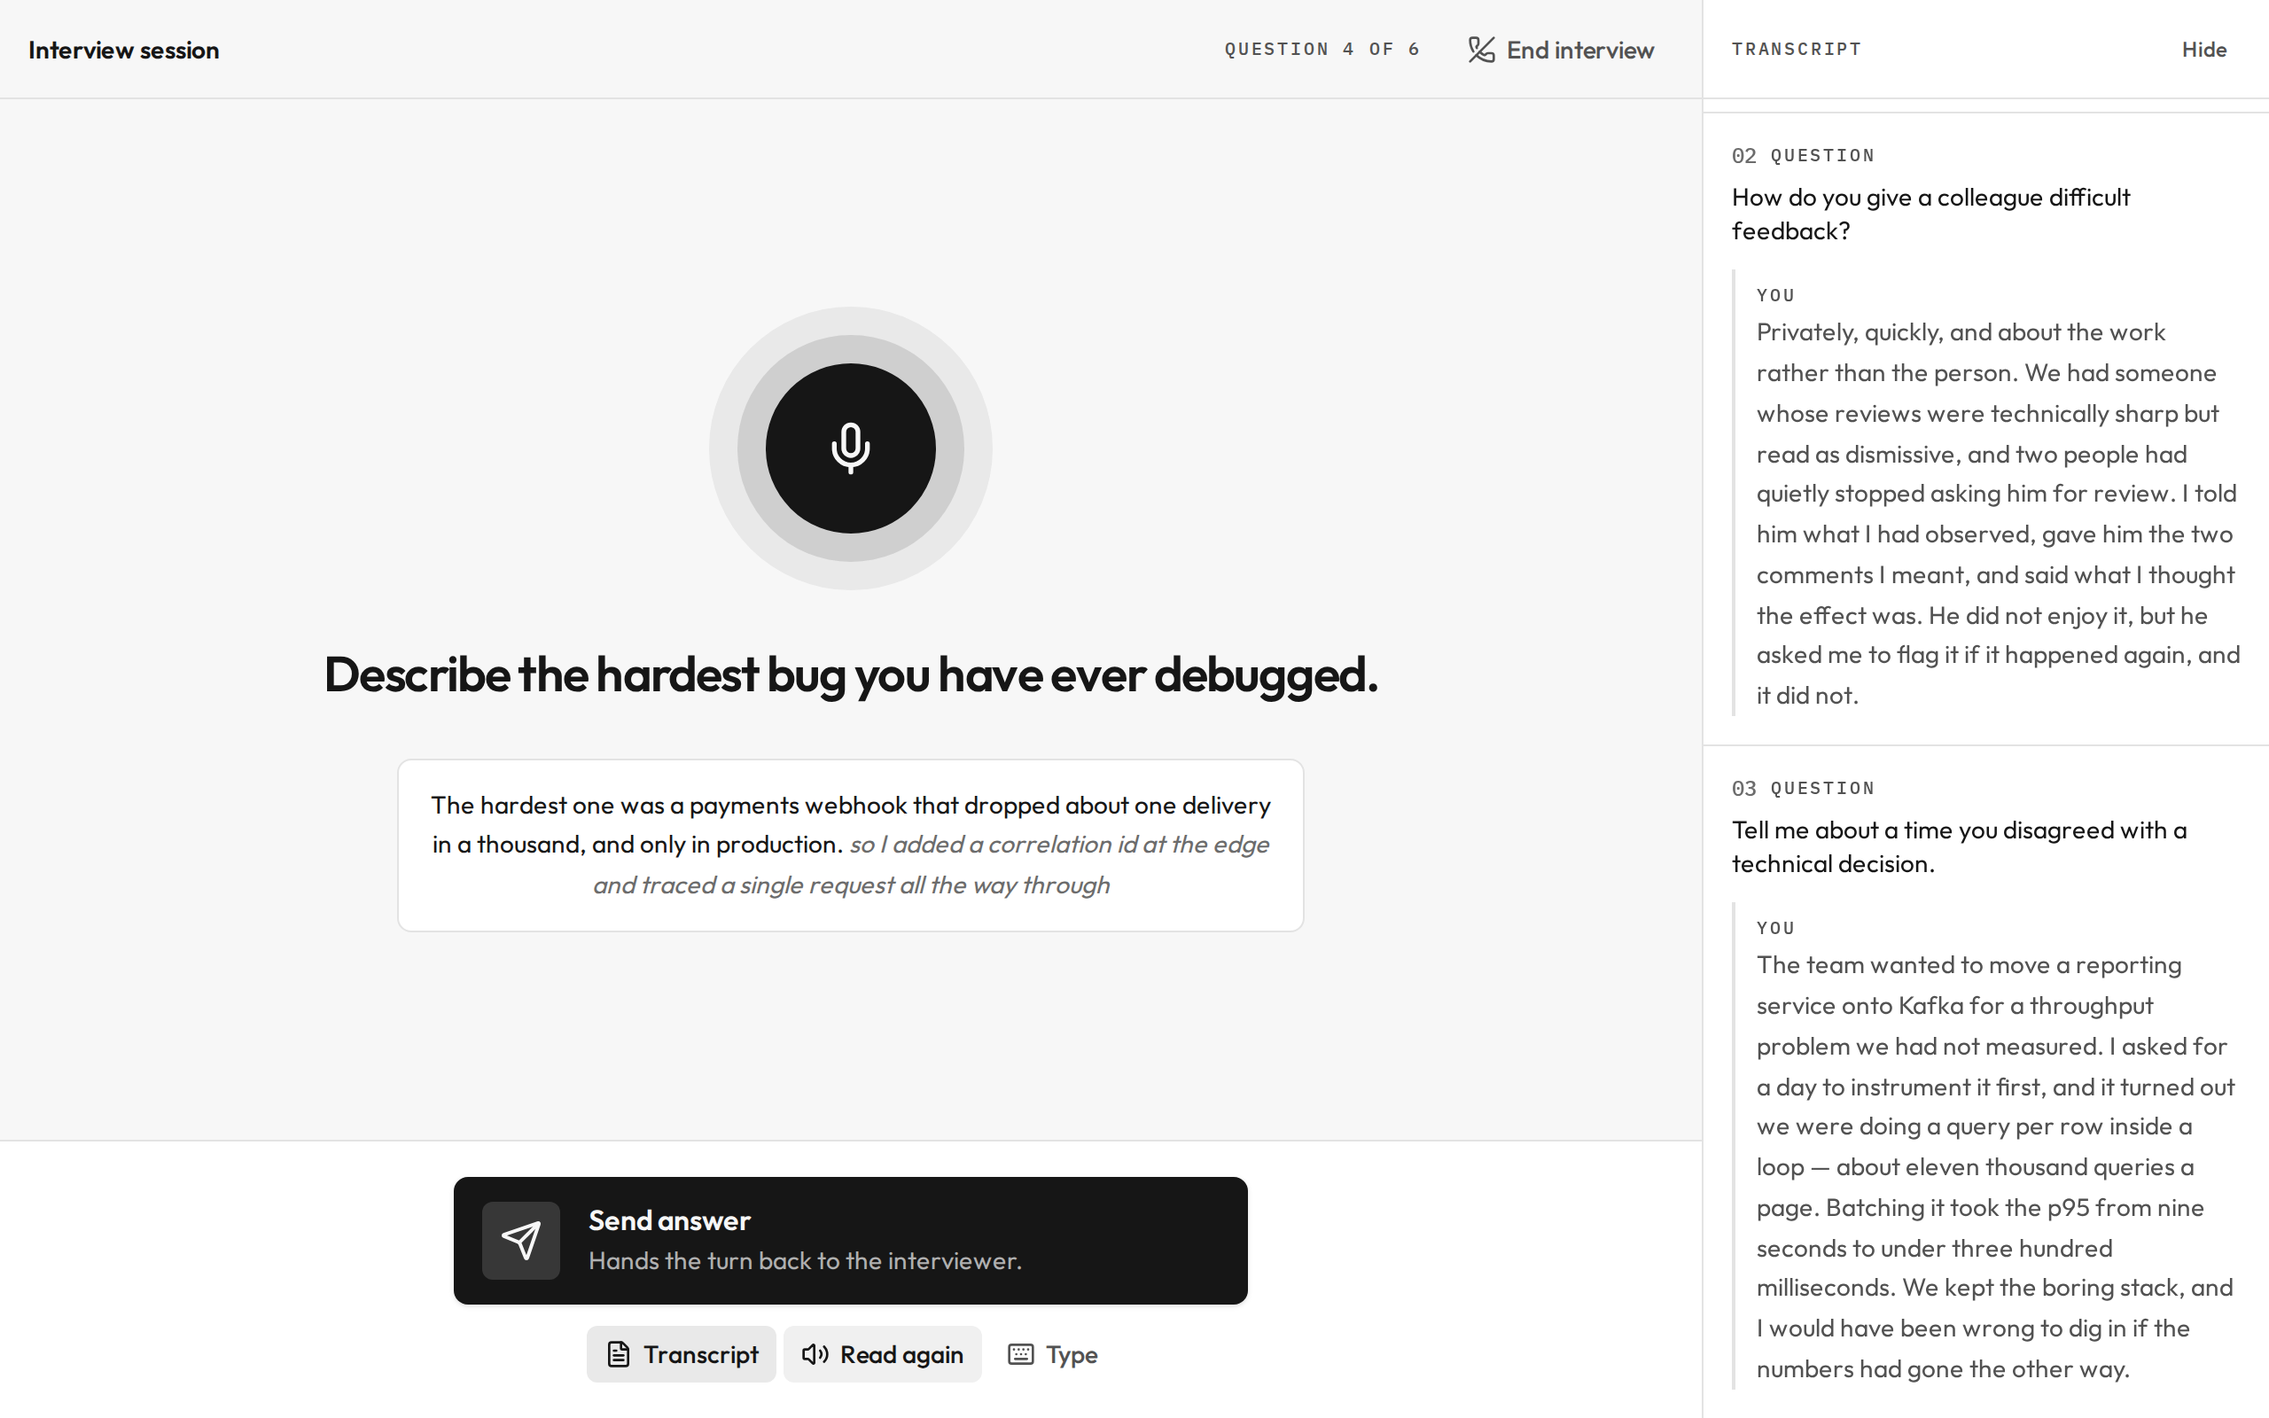
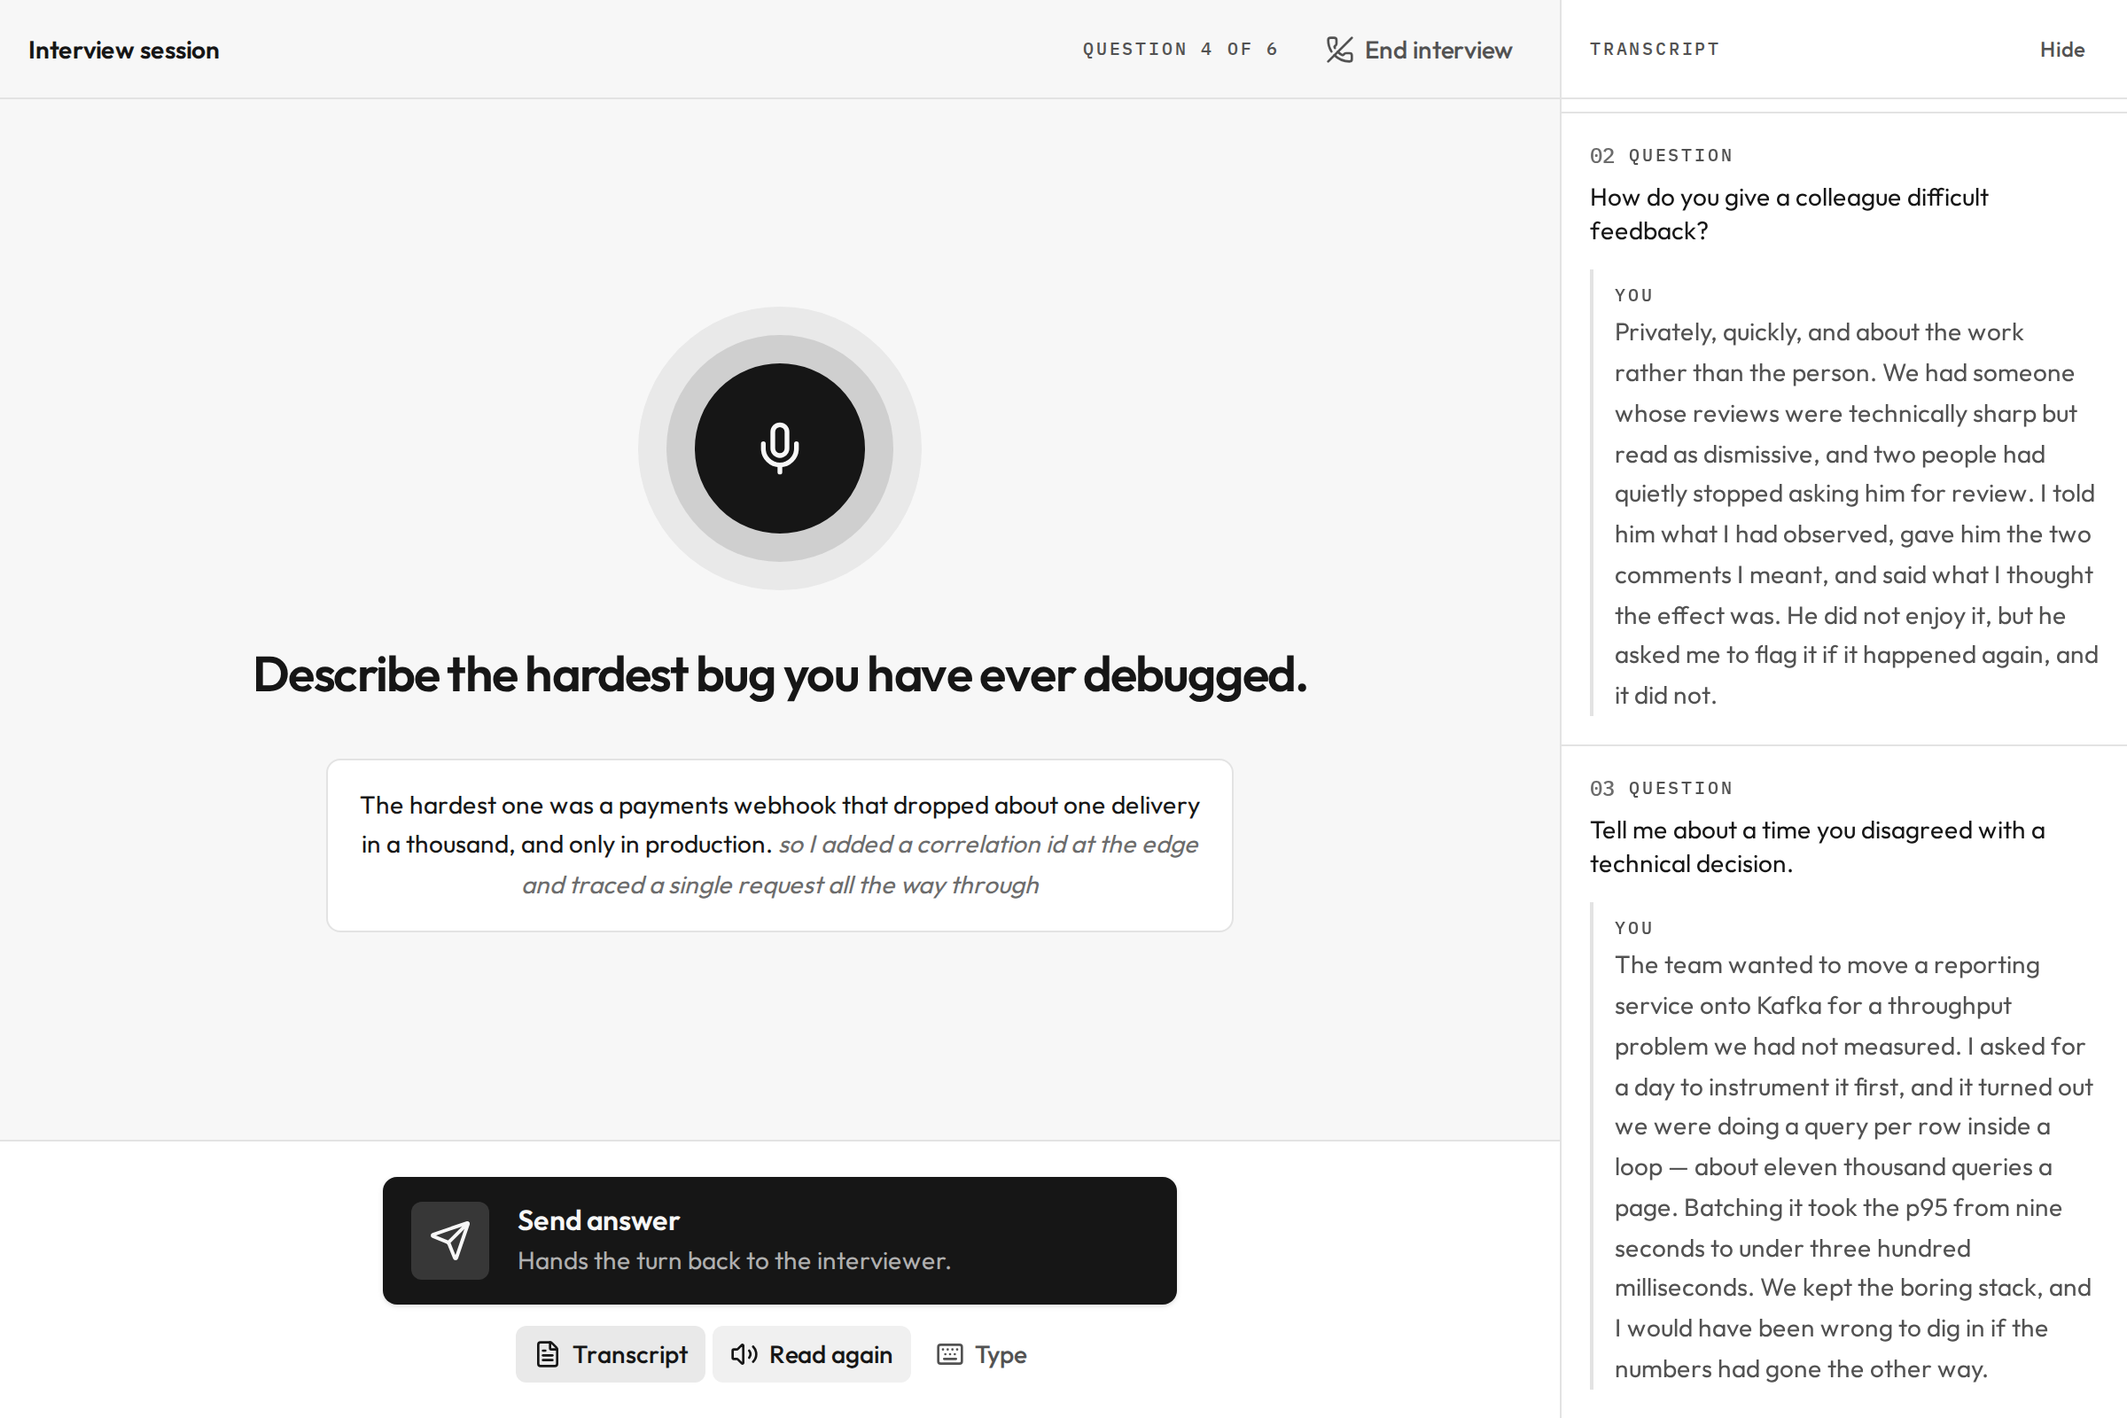
feat(scripts): photograph the dashboard and the report's writing
The capture script took two pictures: the room, and the top of a finished
report. That top is all scores and no writing, and the writing is the half
of a report worth reading — so the report is now cut into two tiles, one
for what it scored and one for the coaching note and the first answer's
card. A fourth target photographs the dashboard, over a year of practice
history seeded from a fixed seed so every run draws the same graph.

Tiles are clipped around a panel rather than at a pixel offset, so a
report the model wrote two lines longer than last time is still framed on
the same block, and two shapes are cut rather than one: what the report
scores is a wide block and what it writes is a tall one. Both new frames
print a warning when the content they exist for falls outside them.

diff --git a/scripts/capture-screenshots.ts b/scripts/capture-screenshots.ts
@@ -1,10 +1,12 @@
 /**
- * Captures the README screenshots: the room mid-answer, and a finished report.
+ * Captures the four README screenshots: the room mid-answer, the scores a
+ * finished session was given, the writing underneath them, and the practice
+ * log on the dashboard.
  *
- * Both are taken against the *test* database, so a run never touches the
- * transcripts in the dev one, and against the real report generator rather than
- * the stub the e2e suite uses — a screenshot of stubbed feedback would be a
- * screenshot of nothing. That costs one Gemini call per run.
+ * All of them are taken against the *test* database, so a run never touches
+ * the transcripts in the dev one, and against the real report generator rather
+ * than the stub the e2e suite uses — a screenshot of stubbed feedback would be
+ * a screenshot of nothing. That costs one Gemini call per run.
  *
  * Start the stack it drives first, in another terminal:
  *
@@ -14,12 +16,18 @@
  * Then, from the repository root:
  *
  *   set -a; . ./.env; set +a
- *   node scripts/capture-screenshots.ts        # both
- *   node scripts/capture-screenshots.ts report # just the report
- *   node scripts/capture-screenshots.ts room   # just the room
+ *   node scripts/capture-screenshots.ts           # all four
+ *   node scripts/capture-screenshots.ts report    # the two report tiles
+ *   node scripts/capture-screenshots.ts room      # just the room
+ *   node scripts/capture-screenshots.ts dashboard # just the dashboard
  */
 import { mkdirSync } from "node:fs";
-import { type Browser, chromium, type Page } from "@playwright/test";
+import {
+  type Browser,
+  chromium,
+  type Locator,
+  type Page,
+} from "@playwright/test";
 import { config } from "dotenv";
 import { Pool } from "pg";
 
@@ -37,9 +45,30 @@ if (!new URL(connectionString).pathname.endsWith("_test")) {
 }
 
 const only = process.argv[2] ?? "all";
-if (!["all", "room", "report"].includes(only)) {
-  throw new Error(`Unknown target "${only}". Use all, room or report.`);
+if (!["all", "room", "report", "dashboard"].includes(only)) {
+  throw new Error(
+    `Unknown target "${only}". Use all, room, report or dashboard.`,
+  );
 }
+
+/**
+ * The README sets these two to a row, so each row is cut to one shape and the
+ * grid lines up. Two shapes rather than one: what the report scores is a wide
+ * block and what it writes is a tall one, and forcing both into the same frame
+ * either cuts a panel in half or leaves a strip of the next one hanging in.
+ *
+ * The room is photographed wider than the rest because it is the one full-bleed
+ * screen — the transcript only stands beside the stage, rather than sliding
+ * over it, above `md`. Everything else lives in the app's `max-w-3xl` content
+ * column: 768 plus a margin either side is all there is to photograph, and a
+ * wider frame would only add background.
+ */
+const WIDE_TILE = { width: 816, height: 544 };
+const TALL_TILE = { width: 816, height: 680 };
+/** The room, at the wide tile's ratio. */
+const ROOM_TILE = { width: 1200, height: 800 };
+/** A tile opens one panel gap — the app's own `space-y-4` — above its anchor. */
+const TILE_PAD = 16;
 
 const BANK = [
   "Tell me about a time you disagreed with a technical decision.",
@@ -104,6 +133,116 @@ const REPORT_FINAL = {
   q: "How do you decide what to test?",
   a: "I go after the parts where a mistake actually costs something — payments, permissions, anything that writes or deletes. Those I cover at the unit level where I can, and I keep the browser tests to the few journeys people cannot avoid. If I fix a bug I will usually add a test for it as well.",
 };
+
+/**
+ * The practice history behind the dashboard: a year of days, thinner at the
+ * far end of the window than at this one, with a nine-day run ending today and
+ * a longer one last winter.
+ *
+ * Generated from a fixed seed rather than written out. Three hundred and
+ * seventy hand-picked dates is a wall of literals nobody would read or keep
+ * accurate, and the seed makes every run draw the same graph. It thickens
+ * towards the present on purpose: an evenly full year says nothing about a
+ * habit, and the shape of one forming is what the screen is for.
+ */
+const HISTORY_DAYS = 370;
+/** Days before today. Today is practised too, so the run reads as nine. */
+const CURRENT_RUN = 8;
+const BEST_RUN = { from: 121, days: 17 };
+
+/** How often a day was practised, by how long ago it was. */
+function likelihood(daysAgo: number): number {
+  if (daysAgo < 120) return 0.58;
+  if (daysAgo < 250) return 0.4;
+  return 0.22;
+}
+
+/** Small seeded PRNG (mulberry32), so the same year is drawn every run. */
+function seeded(seed: number): () => number {
+  let state = seed;
+  return () => {
+    state = (state + 0x6d2b79f5) | 0;
+    let t = state;
+    t = Math.imul(t ^ (t >>> 15), t | 1);
+    t ^= t + Math.imul(t ^ (t >>> 7), t | 61);
+    return ((t ^ (t >>> 14)) >>> 0) / 4294967296;
+  };
+}
+
+/** How many days before today each seeded practice session was sat. */
+function practiceDaysAgo(): number[] {
+  const random = seeded(0x5eed);
+  const days: number[] = [];
+  for (let daysAgo = 1; daysAgo <= HISTORY_DAYS; daysAgo += 1) {
+    const inRun =
+      daysAgo <= CURRENT_RUN ||
+      (daysAgo >= BEST_RUN.from && daysAgo < BEST_RUN.from + BEST_RUN.days);
+    if (inRun) {
+      days.push(daysAgo);
+      continue;
+    }
+    // A run is only a run if the day either side of it is a miss, so the two
+    // above are fenced rather than left to the dice.
+    const fences = [
+      CURRENT_RUN + 1,
+      BEST_RUN.from - 1,
+      BEST_RUN.from + BEST_RUN.days,
+    ];
+    if (fences.includes(daysAgo)) continue;
+    if (random() < likelihood(daysAgo)) days.push(daysAgo);
+  }
+  return days;
+}
+
+/**
+ * The evening of a day that many days ago, computed here rather than in SQL.
+ *
+ * Which day a session belongs to is a question about the *browser's* timezone —
+ * that is where the heatmap buckets them — and Postgres would answer it in the
+ * server's. Node shares the browser's, so the dates line up whatever the
+ * container is set to.
+ */
+function eveningDaysAgo(daysAgo: number): Date {
+  const date = new Date();
+  date.setHours(19, 0, 0, 0);
+  date.setDate(date.getDate() - daysAgo);
+  return date;
+}
+
+/**
+ * Fills in the practice log: one finished session an evening, over the whole
+ * bank, every question answered.
+ *
+ * The answers are a placeholder and say so. Nothing photographed reads them —
+ * the heatmap needs only the day a session was sat and that something was
+ * answered on it — and writing three hundred plausible transcripts to fill in
+ * squares 10 pixels wide would be a strange way to spend an afternoon.
+ */
+async function seedHistory(pool: Pool): Promise<number> {
+  const days = practiceDaysAgo();
+  const { rowCount } = await pool.query(
+    `WITH sat AS (
+       SELECT started FROM unnest($1::timestamptz[]) AS started
+     ), inserted AS (
+       INSERT INTO sessions (question_count, started_at, ended_at)
+       SELECT $2, started, started + interval '14 minutes' FROM sat
+       RETURNING id, started_at
+     )
+     INSERT INTO turns (session_id, position, question_text, answer_text, answered_at)
+     SELECT inserted.id, asked.position, asked.text, $3,
+            inserted.started_at + asked.position * interval '2 minutes'
+     FROM inserted
+     CROSS JOIN unnest($4::text[]) WITH ORDINALITY AS asked(text, position)`,
+    [
+      days.map((daysAgo) => eveningDaysAgo(daysAgo).toISOString()),
+      BANK.length,
+      "(seeded practice history, not a real answer)",
+      BANK,
+    ],
+  );
+  console.log(`history: ${days.length} days, ${rowCount} turns`);
+  return days.length;
+}
 
 interface SeededTurn {
   readonly q: string;
@@ -171,6 +310,9 @@ async function seed() {
       unanswered: [REPORT_FINAL.q],
       startedMinutesAgo: 18,
     });
+    // Both of the above were sat today, so the dashboard's newest square is
+    // filled by the two sessions being photographed rather than by history.
+    await seedHistory(pool);
     return { roomId, reportId };
   } finally {
     await pool.end();
@@ -257,11 +399,43 @@ async function hideDevtools(page: Page): Promise<void> {
   });
 }
 
+/**
+ * A tile cut out of a page taller than one: the content column with an even
+ * margin either side, opening a gap above `anchor`.
+ *
+ * Anchored to a panel rather than to a pixel offset, so a report the model
+ * wrote two lines longer than last time is still framed on the same block.
+ */
+async function documentTile(
+  page: Page,
+  anchor: Locator,
+  size: { width: number; height: number },
+): Promise<{ x: number; y: number; width: number; height: number }> {
+  // Both boxes are viewport-relative, so they are document coordinates only
+  // while the page is at the top of itself.
+  await page.evaluate(() => window.scrollTo(0, 0));
+  const column = await page.locator("main").boundingBox();
+  const box = await anchor.boundingBox();
+  if (!column || !box) throw new Error("Could not measure the tile to cut.");
+  return {
+    x: Math.max(0, Math.round(column.x + column.width / 2 - size.width / 2)),
+    y: Math.max(0, Math.round(box.y - TILE_PAD)),
+    ...size,
+  };
+}
+
+/** The panel a block of the report is drawn on, found by its field label. */
+const blockPanel = (page: Page, label: string) =>
+  page
+    .getByText(label, { exact: true })
+    .first()
+    .locator("xpath=ancestor::div[contains(@class,'rounded-lg')][1]");
+
 async function captureRoom(browser: Browser, sessionId: string): Promise<void> {
   const context = await browser.newContext({
     // Wide enough that the transcript stands beside the stage rather than
     // sliding over it, which is the layout below md.
-    viewport: { width: 1280, height: 800 },
+    viewport: ROOM_TILE,
     deviceScaleFactor: 2,
     colorScheme: "light",
   });
@@ -295,7 +469,9 @@ async function captureReport(
   sessionId: string,
 ): Promise<string> {
   const context = await browser.newContext({
-    viewport: { width: 1024, height: 900 },
+    // As wide as a tile, so a tile is the full width of the window and the
+    // margin either side of the content column is the one the app leaves.
+    viewport: { width: WIDE_TILE.width, height: 900 },
     deviceScaleFactor: 2,
     colorScheme: "light",
   });
@@ -325,9 +501,41 @@ async function captureReport(
     path: `${OUT}feedback-report-full.png`,
     fullPage: true,
   });
-  // Cropped to the verdict, the radar and the breakdown: the per-answer cards
-  // run several screens deep and shrink to nothing in a README.
-  await page.screenshot({ path: `${OUT}feedback-report.png` });
+
+  // Two tiles rather than one, because one crop of the top of this page is all
+  // scores and no writing — and the writing is the half of a report worth
+  // reading. Between them they stop at the first answer: the whole thing runs
+  // several screens deep and shrinks to nothing in a README, so the full page
+  // above is what the README links for the rest.
+  await page.screenshot({
+    path: `${OUT}feedback-scores.png`,
+    fullPage: true,
+    clip: await documentTile(page, blockPanel(page, "Verdict"), WIDE_TILE),
+  });
+  const notes = await documentTile(
+    page,
+    blockPanel(page, "Coaching note"),
+    TALL_TILE,
+  );
+  await page.screenshot({
+    path: `${OUT}feedback-notes.png`,
+    fullPage: true,
+    clip: notes,
+  });
+
+  // The coaching note runs as long as the model made it, so how much of the
+  // first answer's card is left in frame under it varies by run. What has to
+  // survive is the advice: the disclosure below it is a summary line and can
+  // fall off the edge, but a tile that cut "do differently" in half would be
+  // showing the feature without the point of it.
+  const advice = await page
+    .getByText("Do differently", { exact: true })
+    .first()
+    .locator("xpath=following-sibling::dd[1]")
+    .boundingBox();
+  const cut = advice
+    ? Math.round(advice.y + advice.height - (notes.y + notes.height))
+    : 0;
 
   // Printed because the verdict is the model's call, not this script's: the
   // answers above are written to land mid-rubric, and a run that comes out at
@@ -337,7 +545,49 @@ async function captureReport(
     .locator("xpath=../..")
     .innerText();
   await context.close();
-  return verdict.replace(/\s+/g, " ").trim();
+  return `${verdict.replace(/\s+/g, " ").trim()}${
+    cut > 0 ? ` — WARNING: the first answer's advice is cut by ${cut}px` : ""
+  }`;
+}
+
+/**
+ * The practice log. Photographed last of the four, though it does not have to
+ * be: the two sessions above are already answered when they are seeded, so
+ * today's square is filled whichever order the runs happen in.
+ */
+async function captureDashboard(browser: Browser): Promise<string> {
+  const context = await browser.newContext({
+    // The whole screen is shorter than a tall tile, so this one is framed by
+    // the window rather than clipped out of the page.
+    viewport: TALL_TILE,
+    deviceScaleFactor: 2,
+    colorScheme: "light",
+  });
+  const page = await context.newPage();
+  await page.goto(`${BASE}/dashboard`);
+
+  // The grid is derived from the session list, so waiting for a square is
+  // waiting for the whole screen.
+  await page.getByRole("table").waitFor({ timeout: 30_000 });
+  await page.waitForTimeout(500);
+  await hideDevtools(page);
+
+  await page.screenshot({ path: `${OUT}practice-dashboard.png` });
+
+  // Printed for the same reason the verdict is: the year is seeded from dice,
+  // and a run that comes out with no streak worth showing needs another seed.
+  const stats = await page.getByRole("definition").allInnerTexts();
+  // The page's bottom padding hangs below the fold by design, so what is
+  // checked is the grid: a tile that cut the last row of squares off would be
+  // a tile of the wrong screen.
+  const grid = await page.getByRole("table").boundingBox();
+  const overflow = grid
+    ? Math.round(grid.y + grid.height - TALL_TILE.height)
+    : 0;
+  await context.close();
+  return `${stats.join(" / ").replace(/\s+/g, " ")}${
+    overflow > 0 ? ` — WARNING: ${overflow}px below the fold` : ""
+  }`;
 }
 
 const response = await fetch(BASE).catch(() => null);
@@ -359,6 +609,9 @@ try {
   if (only === "all" || only === "room") {
     await captureRoom(browser, roomId);
     console.log("room: captured");
+  }
+  if (only === "all" || only === "dashboard") {
+    console.log("dashboard:", await captureDashboard(browser));
   }
 } finally {
   await browser.close();
